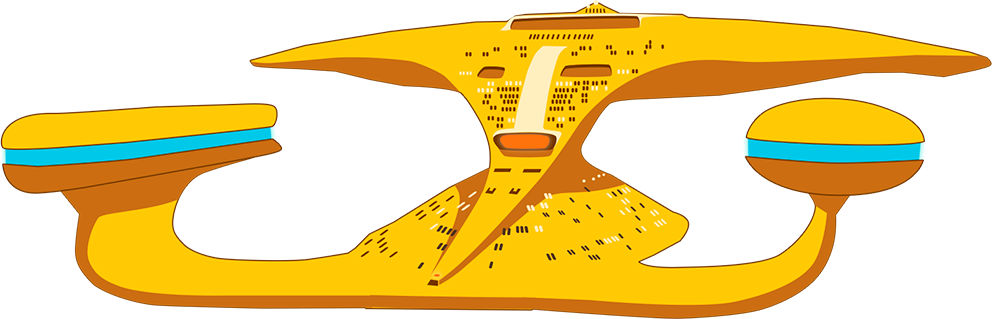
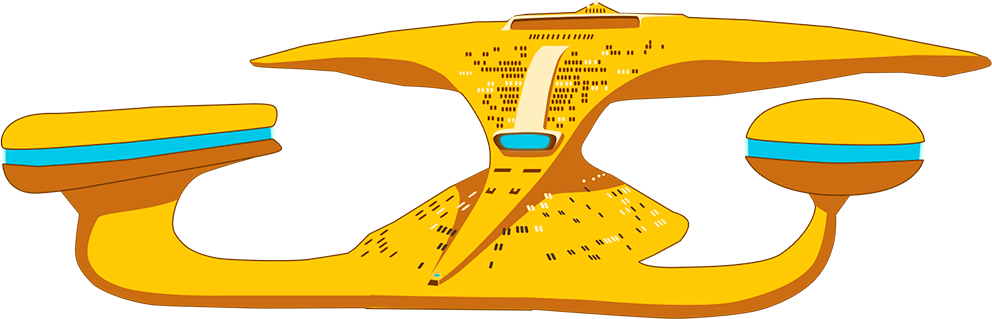
add button oll step

Changed region(s): [[0.4688, 0.1411, 0.625, 0.4796]]

diff --git a/index.html b/index.html
@@ -3,13 +3,24 @@
 <head>
 	<meta charset="utf-8">
 	<meta name="viewport" content="width=device-width, initial-scale=1.0">
+	<meta name="robots" content="index,follow" />
 	<title>BeKey</title>
-	<link rel="shortcut icon" href="images/favicon.png" type="image/x-icon">
+	<link rel="shortcut icon" href="favicon.ico" type="image/x-icon">
 	<link media="all" rel="stylesheet" href="css/main.css">
 	<script src="http://ajax.googleapis.com/ajax/libs/jquery/1.12.4/jquery.min.js" defer></script>
 	<script>window.jQuery || document.write('<script src="js/jquery-1.12.4.min.js" defer><\/script>')</script>
 	<script src="js/jquery.fullpage.js" defer></script>
 	<script src="js/main.js" defer></script>
+	<script id="bx24_form_button" data-skip-moving="true" defer>
+        (function(w,d,u,b){w['Bitrix24FormObject']=b;w[b] = w[b] || function(){arguments[0].ref=u;
+                (w[b].forms=w[b].forms||[]).push(arguments[0])};
+                if(w[b]['forms']) return;
+                s=d.createElement('script');r=1*new Date();s.async=1;s.src=u+'?'+r;
+                h=d.getElementsByTagName('script')[0];h.parentNode.insertBefore(s,h);
+        })(window,document,'https://bekey.bitrix24.com/bitrix/js/crm/form_loader.js','b24form');
+
+        b24form({"id":"8","lang":"en","sec":"romt97","type":"button","click":""});
+	</script>
 </head>
 <body>
 	<div id="fullpage" class="wrapper">
@@ -54,7 +65,8 @@
 				</div>
 				<div class="s1b-sect">
 					<p>But what do I do next?</p>
-					<a href="#" class="btn-orange">Discuss my project</a>
+					<button class="b24-web-form-popup-btn-8 btn-orange">Discuss my project</button>
+					<!--<a href="#" class="btn-orange">Discuss my project</a>-->
 					<div class="arrow-down">
 						<span></span>
 					</div>
@@ -83,7 +95,7 @@
 							<div class="s2texth text-center">
 								<p class="font-osvald">BeKey is the right place to contact.</p>
 								<p class="font-ff fontss"></p>
-								<p  class="font-osvald fonts">We are one stop market for development and experts hub.</p>
+								<p  class="font-osvald fonts">We are a one stop market for development and experts hub.</p>
 								<p class="font-osvald">Before you start looking for investments you need to have your detailed business plan prepared, which should include  <span>marketing research, cost, timeline.</span></p>
 								<p class="font-osvald">Also it is good to have specification and workplans.</p>
 							</div>
@@ -130,7 +142,7 @@
 						<div class="s2text-head">
 							<div class="s2texth">
 								<h2>Step 1</h2>
-								<p class="font-osvald"><strong>BeKey can help with the following: </strong> <strong class="font-chunc mt-3">(Free of charge)</strong></p>
+								<p class="font-osvald"><strong>BeKey CAN HELP YOU WITH THE FOLLOWING: </strong> <strong class="font-chunc mt-3"> (FREE OF CHARGE)</strong></p>
 								<ul class="font-osvald">
 									<li>- advise on technology stack</li>
 									<li>- estimate the costs for the prototype, MVP and production version.</li>
@@ -138,6 +150,7 @@
 									<li>- create the work plans</li>
 									<li>- set milestones and timelines</li>
 								</ul>
+								<button class="b24-web-form-popup-btn-8 btn-orange">GET ESTIMATES</button>
 							</div>
 						</div>
 					</div>
@@ -180,6 +193,7 @@
 									<li>- Front End of the website/mobile app</li>
 									<li>- Finalize prototype for demos to potential investors <strong class="ltext">(no backend at this point)</strong></li>
 								</ul>
+								<button class="b24-web-form-popup-btn-8 btn-orange">BUILD PROTOTYPE</button>
 							</div>
 						</div>
 					</div>
@@ -187,7 +201,7 @@
 					<div class="s2-headsection s3-headsection">
 						<div class="s2text-head">
 							<div class="s2texth">
-								<p class="font-osvald">If you need technical expertise on a meeting with investors, we’ll be happy to take part in it, free of charge.</p>
+								<p class="font-osvald">If you need technical expertise for a meeting with investors, we will be happy to take part in it, free of charge.</p>
 							</div>
 						</div>
 					</div>
@@ -213,13 +227,14 @@
 						<div class="s2text-head">
 							<div class="s2texth">
 								<h2>Step 3</h2>
-								<p class="font-osvald">You received first round of investments and you are ready to build the MVP:</p>
+								<p class="font-osvald ttu">You received first round of investments and you are ready to build the MVP:</p>
 								<ul class="font-osvald">
 									<li>- establish the team core</li>
 									<li>- set development/testing/release methodology</li>
 									<li>- plan the builds and releases</li>
 									<li>- set environments</li>
 								</ul>
+								<button class="b24-web-form-popup-btn-8 btn-orange">LAUNCH DEVELOPMENT</button>
 							</div>
 						</div>
 					</div>
@@ -254,6 +269,7 @@
 									<li>- automate testing</li>
 									<li>- release MVP</li>
 								</ul>
+								<button class="b24-web-form-popup-btn-8 btn-orange">DEVELOP MVP</button>
 							</div>
 						</div>
 					</div>
@@ -288,8 +304,8 @@
 						<div class="s2text-head">
 							<div class="s2texth">
 								<h2>Step 5</h2>
-								<p class="font-chunc">MVP turned out to be a blast!!! </p>
-								<p class="font-osvald">You received second and third round of investments!</p>
+								<p class="font-chunc ttu">MVP turned out to be a blast!!! </p>
+								<p class="font-osvald ttu">You received second and third round of investments!</p>
 								<ul class="font-osvald">
 									<li>- extend your team</li>
 									<li>- consult and coach your team</li>
@@ -297,6 +313,7 @@
 									<li>- get customers onboard</li>
 									<li>- create support team</li>
 								</ul>
+								<button class="b24-web-form-popup-btn-8 btn-orange">EXTEND YOUR TEAM</button>
 							</div>
 						</div>
 					</div>
@@ -304,7 +321,7 @@
 						<img src="images/plane7.png" alt="plane">	
 					</div>
 					<div class="text-bot">
-						<p>Your company got into the top five startups of the year!</p>
+						<p>Your company got into the top 5 startups of the year!</p>
 					</div>
 				</div>
 				<div class="planet">

diff --git a/css/main.css b/css/main.css
@@ -438,6 +438,12 @@ th {
   font-weight: normal;
   font-style: normal; }
 
+@font-face {
+  font-family: 'roboto_condensedbold';
+  src: url("../fonts/robotocondensed-bold-webfont.woff2") format("woff2"), url("../fonts/robotocondensed-bold-webfont.woff") format("woff");
+  font-weight: normal;
+  font-style: normal; }
+
 /*!
  * fullPage 2.9.4
  * https://github.com/alvarotrigo/fullPage.js
@@ -859,6 +865,9 @@ body {
   .bottom-background img {
     width: 100%; }
 
+.ttu {
+  text-transform: uppercase; }
+
 .head-backgraund {
   background: #46c8e9;
   overflow: hidden; }
@@ -1212,6 +1221,9 @@ body {
     @media (max-width: 768px) {
       .s1b-sect p {
         font-size: 20px; } }
+  @media (max-width: 480px) {
+    .s1b-sect {
+      width: 100%; } }
 
 .btn-orange {
   display: inline-block;
@@ -1223,7 +1235,8 @@ body {
   padding: 10px 20px;
   font-size: 18px;
   margin-bottom: 30px;
-  font-family: 'cubanoregular';
+  border: 0;
+  font-family: 'roboto_condensedbold';
   text-transform: uppercase; }
   @media (max-width: 1400px) {
     .btn-orange {
@@ -1246,12 +1259,15 @@ body {
     position: absolute;
     left: -6px;
     top: 3px;
-    bottom: -4px;
+    bottom: -3px;
     width: 6px;
     -webkit-transform: skewX(0deg) skewY(-45deg);
         -ms-transform: skewX(0deg) skewY(-45deg);
             transform: skewX(0deg) skewY(-45deg);
     background: #d56d16; }
+
+.crm-webform-button-container {
+  background: #f00 !important; }
 
 .arrow-down {
   text-align: center;
@@ -1345,6 +1361,9 @@ body {
     top: 8%;
     left: 22%;
     z-index: 5; }
+    @media (max-width: 768px) {
+      .general-second .cloud-l3 {
+        display: none; } }
   .general-second .cloud-r3 {
     position: absolute;
     top: 25%;
@@ -1748,20 +1767,25 @@ section.general-th .bottom-background:after {
 
 .s2texth {
   text-align: left; }
-  .s2texth p {
-    text-transform: uppercase; }
   .s2texth h2 {
     color: #fece0b;
     font-size: 48px; }
     @media (max-width: 768px) {
       .s2texth h2 {
         font-size: 36px; } }
+  .s2texth ul {
+    margin-bottom: 15px; }
   .s2texth li {
     position: relative;
     padding-left: 20px; }
     @media (max-width: 480px) {
       .s2texth li {
         padding-left: 5px; } }
+  .s2texth .btn-orange {
+    margin-left: 25px; }
+    @media (max-width: 1024px) {
+      .s2texth .btn-orange {
+        font-size: 16px; } }
 
 .s3-headsection {
   top: auto;

diff --git a/scss/main.scss b/scss/main.scss
@@ -78,7 +78,9 @@ body {
     width: 100%;
   }
 }
-
+.ttu {
+  text-transform: uppercase;
+}
 .head-backgraund {
   background: #46c8e9;
   overflow: hidden;
@@ -457,6 +459,9 @@ body {
       font-size: 20px;
     }
   }
+  @include media ('<=phone') {
+      width: 100%;
+    }
 }
 .btn-orange {
   display: inline-block;
@@ -468,7 +473,8 @@ body {
   padding: 10px 20px;
   font-size: 18px;
   margin-bottom: 30px;
-  font-family: 'cubanoregular';
+  border:0;
+  font-family: 'roboto_condensedbold';
   text-transform: uppercase;
   @include media ('<=fullscreen') {
       margin-bottom: 20px;
@@ -492,11 +498,14 @@ body {
     position: absolute;
     left: -6px;
     top: 3px;
-    bottom: -4px;
+    bottom: -3px;
     width: 6px;
     transform: skewX(0deg) skewY(-45deg);
     background: #d56d16;
   }
+}
+.crm-webform-button-container {
+  background: #f00 !important;
 }
 .arrow-down {
   text-align: center;
@@ -599,6 +608,9 @@ body {
     top: 8%;
     left: 22%;
     z-index: 5;
+     @include media ('<=tablet') {
+      display: none;
+    }
   }
   .cloud-r3 {
     position: absolute;
@@ -1028,9 +1040,6 @@ section.general-th {
 }
 .s2texth {
   text-align: left;
-  p {
-    text-transform: uppercase;
-  }
   h2 {
     color: #fece0b;
     font-size: 48px;
@@ -1041,12 +1050,19 @@ section.general-th {
 
   ul {
     @extend %listreset;
+    margin-bottom: 15px;
   }
   li {
     position: relative;
     padding-left: 20px;
     @include media ('<=phone') {
       padding-left: 5px;
+    }
+  }
+  .btn-orange {
+    margin-left: 25px;
+    @include media ('<=desktop') {
+      font-size: 16px;
     }
   }
 }

diff --git a/scss/vendors/_fonts.scss b/scss/vendors/_fonts.scss
@@ -112,3 +112,11 @@
     font-style: normal;
 
 }
+@font-face {
+    font-family: 'roboto_condensedbold';
+    src: url('../fonts/robotocondensed-bold-webfont.woff2') format('woff2'),
+         url('../fonts/robotocondensed-bold-webfont.woff') format('woff');
+    font-weight: normal;
+    font-style: normal;
+
+}
